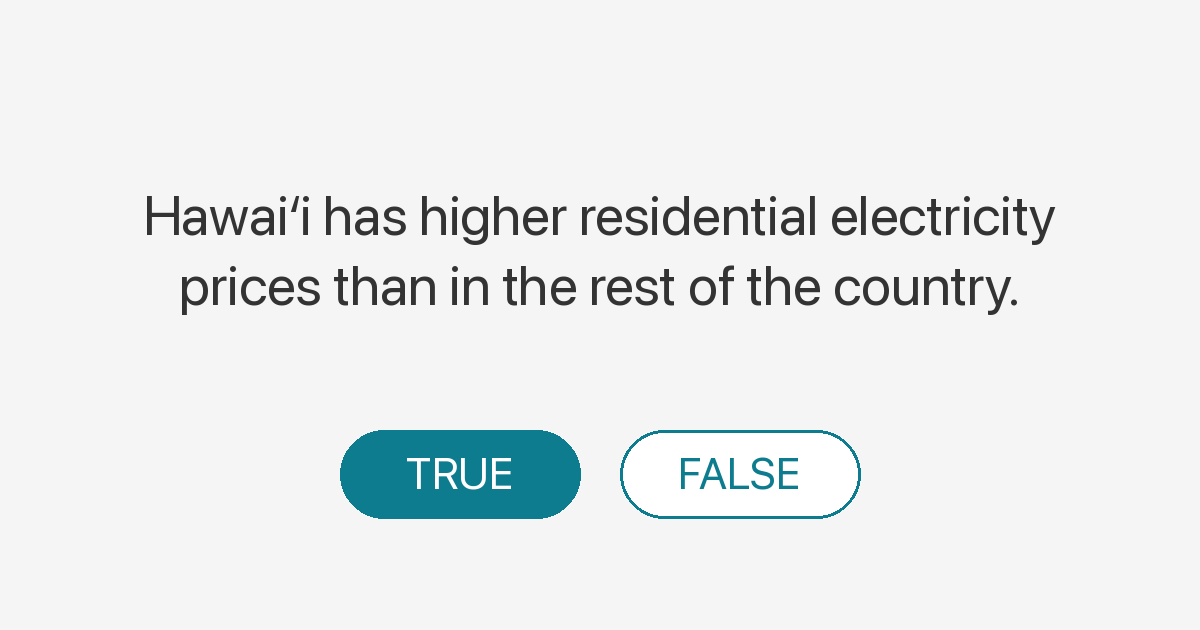
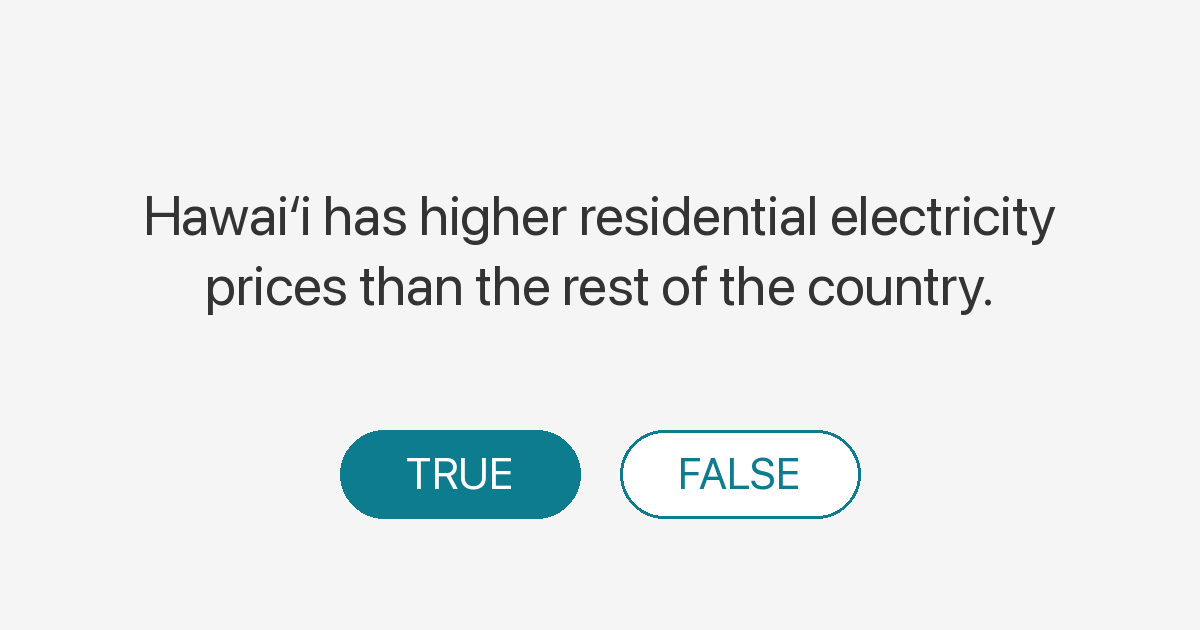
qotd: clarity sweep — 8 claims tightened
Adopted from daily-review edit pass; only changes that genuinely
improve 2-second comprehension:

Adds essential rate/per-capita framing (small-population misread risk):
- q047: "as a % of residents" → "per resident"
- q048: "...for primary care doctors" → "...for primary care doctors per resident"
- q078: "highest unsheltered homelessness" → "highest unsheltered homelessness rates"
- q080: "highest unsheltered homelessness" → "highest unsheltered homelessness rate"
       + "Of all counties" → "Of all Hawaiʻi counties"
- q084: "lower food insecurity" → "a lower food insecurity rate"

Style/consistency fixes:
- q037: "top ranked" → "top-ranked" (hyphenation matches q002)
- q083: rewrite to canonical V6 form "X has gone down in Hawaiʻi
        in the last five years" (matches q019/q038/q042/q052/q079)
- q050: drops "in" before "the rest of the country" (tighter grammar)

Slug updated for q047, q048, q078, q080, q084 to reflect new claim.
OG PNGs regenerated; 5 orphan PNGs removed.

Changed region(s): [[0.1542, 0.4222, 0.8633, 0.5127]]

diff --git a/js/questions.js b/js/questions.js
@@ -59,7 +59,7 @@ const QOTD_QUESTIONS = [
   {
       "id": "q050",
       "slug": "hawaii-has-higher-electricity-prices-than-the-rest-of-the-country",
-      "claim": "Hawaiʻi has higher residential electricity prices than in the rest of the country.",
+      "claim": "Hawaiʻi has higher residential electricity prices than the rest of the country.",
       "correct": true,
       "answer": "In 2025, Hawaiʻi was 40.6¢ versus the median of 15.3¢.",
       "chartUrl": "/r/residential_price_cpkwh/",
@@ -238,8 +238,8 @@ const QOTD_QUESTIONS = [
   },
   {
       "id": "q078",
-      "slug": "hawaii-is-among-the-states-with-the-highest-unsheltered-homelessness",
-      "claim": "Hawaiʻi is among the states with the highest unsheltered homelessness.",
+      "slug": "hawaii-is-among-the-states-with-the-highest-unsheltered-homelessness-rates",
+      "claim": "Hawaiʻi is among the states with the highest unsheltered homelessness rates.",
       "correct": true,
       "answer": "Hawaiʻi has the #3 highest value among 50 states in 2024 (28.2 per 10K).",
       "chartUrl": "/r/unsheltered_homeless_rate/",
@@ -299,7 +299,7 @@ const QOTD_QUESTIONS = [
   {
       "id": "q037",
       "slug": "hawaii-is-in-the-top-10-states-for-low-violent-crime",
-      "claim": "Hawaiʻi is among the top ranked states for low violent crime.",
+      "claim": "Hawaiʻi is among the top-ranked states for low violent crime.",
       "correct": true,
       "answer": "Hawaiʻi ranks #12 of 50 in 2024, in the top quartile.",
       "chartUrl": "/r/violent_crime_rate/",
@@ -310,8 +310,8 @@ const QOTD_QUESTIONS = [
   },
   {
       "id": "q047",
-      "slug": "hawaii-has-more-primary-care-doctors-than-the-rest-of-the-country",
-      "claim": "Hawaiʻi has more primary care doctors as a % of residents than in most states.",
+      "slug": "hawaii-has-more-primary-care-doctors-per-resident-than-most-states",
+      "claim": "Hawaiʻi has more primary care doctors per resident than most states.",
       "correct": true,
       "answer": "In 2023, Hawaiʻi was 88.1 per 100K versus the median of 78.7 per 100K.",
       "chartUrl": "/r/pcp_per_100k/",
@@ -383,7 +383,7 @@ const QOTD_QUESTIONS = [
   {
       "id": "q083",
       "slug": "food-insecurity-has-gone-down-in-hawaii-in-the-last-five-years",
-      "claim": "Hawaiʻi has less food insecurity than it did five years ago.",
+      "claim": "Food insecurity has gone down in Hawaiʻi in the last five years.",
       "correct": false,
       "answer": "Hawaiʻi's food insecurity rate went from 8.0% to 10.8% between the 2016-2018 and 2022-2024 windows (+36.1%).",
       "chartUrl": "/t/food_insecurity_rate/",
@@ -478,8 +478,8 @@ const QOTD_QUESTIONS = [
   },
   {
       "id": "q048",
-      "slug": "hawaii-is-in-the-top-10-states-for-primary-care-doctors",
-      "claim": "Hawaiʻi is in the top 10 states for primary care doctors.",
+      "slug": "hawaii-is-in-the-top-10-states-for-primary-care-doctors-per-resident",
+      "claim": "Hawaiʻi is in the top 10 states for primary care doctors per resident.",
       "correct": true,
       "answer": "Hawaiʻi ranks #8 of 50 in 2023.",
       "chartUrl": "/r/pcp_per_100k/",
@@ -550,8 +550,8 @@ const QOTD_QUESTIONS = [
   },
   {
       "id": "q080",
-      "slug": "of-all-counties-honolulu-has-the-highest-unsheltered-homelessness",
-      "claim": "Of all counties, Honolulu has the highest unsheltered homelessness.",
+      "slug": "of-all-hawaii-counties-honolulu-has-the-highest-unsheltered-homelessness-rate",
+      "claim": "Of all Hawaiʻi counties, Honolulu has the highest unsheltered homelessness rate.",
       "correct": false,
       "answer": "In 2024, the county with the highest value was Kauaʻi at 63.0 per 10K.",
       "chartUrl": "/c/unsheltered_homeless_rate/",
@@ -562,8 +562,8 @@ const QOTD_QUESTIONS = [
   },
   {
       "id": "q084",
-      "slug": "hawaii-has-lower-food-insecurity-than-texas",
-      "claim": "Hawaiʻi has lower food insecurity than Texas.",
+      "slug": "hawaii-has-lower-food-insecurity-rate-than-texas",
+      "claim": "Hawaiʻi has a lower food insecurity rate than Texas.",
       "correct": true,
       "answer": "In 2022-2024, Hawaiʻi was 10.8% versus Texas at 17.5%.",
       "chartUrl": "/t/food_insecurity_rate/tx/",

diff --git a/q/q078/index.html b/q/q078/index.html
@@ -6,14 +6,14 @@
   <meta property="og:type" content="website">
   <meta property="og:url" content="https://hawaiidashboard.org/q/q078/">
   <meta property="og:title" content="You know Hawaiʻi?">
-  <meta property="og:image" content="https://hawaiidashboard.org/assets/og/q/hawaii-is-among-the-states-with-the-highest-unsheltered-homelessness.png">
+  <meta property="og:image" content="https://hawaiidashboard.org/assets/og/q/hawaii-is-among-the-states-with-the-highest-unsheltered-homelessness-rates.png">
   <meta property="og:image:width" content="1200">
   <meta property="og:image:height" content="630">
   <meta property="og:site_name" content="Hawaiʻi Dashboard">
   <meta name="twitter:card" content="summary_large_image">
   <meta name="twitter:title" content="You know Hawaiʻi?">
-  <meta name="twitter:image" content="https://hawaiidashboard.org/assets/og/q/hawaii-is-among-the-states-with-the-highest-unsheltered-homelessness.png">
-  <meta name="description" content="Hawaiʻi is among the states with the highest unsheltered homelessness.">
+  <meta name="twitter:image" content="https://hawaiidashboard.org/assets/og/q/hawaii-is-among-the-states-with-the-highest-unsheltered-homelessness-rates.png">
+  <meta name="description" content="Hawaiʻi is among the states with the highest unsheltered homelessness rates.">
   <link rel="canonical" href="https://hawaiidashboard.org/q/q078/">
   <script>window.location.replace("/?from_q=q078");</script>
   <meta http-equiv="refresh" content="0;url=https://hawaiidashboard.org/?from_q=q078">
@@ -22,7 +22,7 @@
   <p>Redirecting to <a href="https://hawaiidashboard.org/?from_q=q078">You know Hawaiʻi?</a>&hellip;</p>
   <article style="max-width:640px;margin:2rem auto;padding:0 1rem;font-family:-apple-system,BlinkMacSystemFont,'Segoe UI',sans-serif;color:#333;line-height:1.55;">
     <p style="color:#888;font-size:0.875rem;text-transform:uppercase;letter-spacing:0.05em;margin:0;">You know Hawaiʻi?</p>
-    <p style="margin:0.25rem 0 1rem;font-size:1.25rem;font-weight:600;">Hawaiʻi is among the states with the highest unsheltered homelessness.</p>
+    <p style="margin:0.25rem 0 1rem;font-size:1.25rem;font-weight:600;">Hawaiʻi is among the states with the highest unsheltered homelessness rates.</p>
     <p><strong>True.</strong> Hawaiʻi has the #3 highest value among 50 states in 2024 (28.2 per 10K).</p>
     <p style="margin-top:1.5rem;"><a href="/r/unsheltered_homeless_rate/">See the data &rarr;</a></p>
   </article>

diff --git a/q/q080/index.html b/q/q080/index.html
@@ -6,14 +6,14 @@
   <meta property="og:type" content="website">
   <meta property="og:url" content="https://hawaiidashboard.org/q/q080/">
   <meta property="og:title" content="You know Hawaiʻi?">
-  <meta property="og:image" content="https://hawaiidashboard.org/assets/og/q/of-all-counties-honolulu-has-the-highest-unsheltered-homelessness.png">
+  <meta property="og:image" content="https://hawaiidashboard.org/assets/og/q/of-all-hawaii-counties-honolulu-has-the-highest-unsheltered-homelessness-rate.png">
   <meta property="og:image:width" content="1200">
   <meta property="og:image:height" content="630">
   <meta property="og:site_name" content="Hawaiʻi Dashboard">
   <meta name="twitter:card" content="summary_large_image">
   <meta name="twitter:title" content="You know Hawaiʻi?">
-  <meta name="twitter:image" content="https://hawaiidashboard.org/assets/og/q/of-all-counties-honolulu-has-the-highest-unsheltered-homelessness.png">
-  <meta name="description" content="Of all counties, Honolulu has the highest unsheltered homelessness.">
+  <meta name="twitter:image" content="https://hawaiidashboard.org/assets/og/q/of-all-hawaii-counties-honolulu-has-the-highest-unsheltered-homelessness-rate.png">
+  <meta name="description" content="Of all Hawaiʻi counties, Honolulu has the highest unsheltered homelessness rate.">
   <link rel="canonical" href="https://hawaiidashboard.org/q/q080/">
   <script>window.location.replace("/?from_q=q080");</script>
   <meta http-equiv="refresh" content="0;url=https://hawaiidashboard.org/?from_q=q080">
@@ -22,7 +22,7 @@
   <p>Redirecting to <a href="https://hawaiidashboard.org/?from_q=q080">You know Hawaiʻi?</a>&hellip;</p>
   <article style="max-width:640px;margin:2rem auto;padding:0 1rem;font-family:-apple-system,BlinkMacSystemFont,'Segoe UI',sans-serif;color:#333;line-height:1.55;">
     <p style="color:#888;font-size:0.875rem;text-transform:uppercase;letter-spacing:0.05em;margin:0;">You know Hawaiʻi?</p>
-    <p style="margin:0.25rem 0 1rem;font-size:1.25rem;font-weight:600;">Of all counties, Honolulu has the highest unsheltered homelessness.</p>
+    <p style="margin:0.25rem 0 1rem;font-size:1.25rem;font-weight:600;">Of all Hawaiʻi counties, Honolulu has the highest unsheltered homelessness rate.</p>
     <p><strong>False.</strong> In 2024, the county with the highest value was Kauaʻi at 63.0 per 10K.</p>
     <p style="margin-top:1.5rem;"><a href="/c/unsheltered_homeless_rate/">See the data &rarr;</a></p>
   </article>

diff --git a/q/q047/index.html b/q/q047/index.html
@@ -6,14 +6,14 @@
   <meta property="og:type" content="website">
   <meta property="og:url" content="https://hawaiidashboard.org/q/q047/">
   <meta property="og:title" content="You know Hawaiʻi?">
-  <meta property="og:image" content="https://hawaiidashboard.org/assets/og/q/hawaii-has-more-primary-care-doctors-than-the-rest-of-the-country.png">
+  <meta property="og:image" content="https://hawaiidashboard.org/assets/og/q/hawaii-has-more-primary-care-doctors-per-resident-than-most-states.png">
   <meta property="og:image:width" content="1200">
   <meta property="og:image:height" content="630">
   <meta property="og:site_name" content="Hawaiʻi Dashboard">
   <meta name="twitter:card" content="summary_large_image">
   <meta name="twitter:title" content="You know Hawaiʻi?">
-  <meta name="twitter:image" content="https://hawaiidashboard.org/assets/og/q/hawaii-has-more-primary-care-doctors-than-the-rest-of-the-country.png">
-  <meta name="description" content="Hawaiʻi has more primary care doctors as a % of residents than in most states.">
+  <meta name="twitter:image" content="https://hawaiidashboard.org/assets/og/q/hawaii-has-more-primary-care-doctors-per-resident-than-most-states.png">
+  <meta name="description" content="Hawaiʻi has more primary care doctors per resident than most states.">
   <link rel="canonical" href="https://hawaiidashboard.org/q/q047/">
   <script>window.location.replace("/?from_q=q047");</script>
   <meta http-equiv="refresh" content="0;url=https://hawaiidashboard.org/?from_q=q047">
@@ -22,7 +22,7 @@
   <p>Redirecting to <a href="https://hawaiidashboard.org/?from_q=q047">You know Hawaiʻi?</a>&hellip;</p>
   <article style="max-width:640px;margin:2rem auto;padding:0 1rem;font-family:-apple-system,BlinkMacSystemFont,'Segoe UI',sans-serif;color:#333;line-height:1.55;">
     <p style="color:#888;font-size:0.875rem;text-transform:uppercase;letter-spacing:0.05em;margin:0;">You know Hawaiʻi?</p>
-    <p style="margin:0.25rem 0 1rem;font-size:1.25rem;font-weight:600;">Hawaiʻi has more primary care doctors as a % of residents than in most states.</p>
+    <p style="margin:0.25rem 0 1rem;font-size:1.25rem;font-weight:600;">Hawaiʻi has more primary care doctors per resident than most states.</p>
     <p><strong>True.</strong> In 2023, Hawaiʻi was 88.1 per 100K versus the median of 78.7 per 100K.</p>
     <p style="margin-top:1.5rem;"><a href="/r/pcp_per_100k/">See the data &rarr;</a></p>
   </article>

diff --git a/q/q048/index.html b/q/q048/index.html
@@ -6,14 +6,14 @@
   <meta property="og:type" content="website">
   <meta property="og:url" content="https://hawaiidashboard.org/q/q048/">
   <meta property="og:title" content="You know Hawaiʻi?">
-  <meta property="og:image" content="https://hawaiidashboard.org/assets/og/q/hawaii-is-in-the-top-10-states-for-primary-care-doctors.png">
+  <meta property="og:image" content="https://hawaiidashboard.org/assets/og/q/hawaii-is-in-the-top-10-states-for-primary-care-doctors-per-resident.png">
   <meta property="og:image:width" content="1200">
   <meta property="og:image:height" content="630">
   <meta property="og:site_name" content="Hawaiʻi Dashboard">
   <meta name="twitter:card" content="summary_large_image">
   <meta name="twitter:title" content="You know Hawaiʻi?">
-  <meta name="twitter:image" content="https://hawaiidashboard.org/assets/og/q/hawaii-is-in-the-top-10-states-for-primary-care-doctors.png">
-  <meta name="description" content="Hawaiʻi is in the top 10 states for primary care doctors.">
+  <meta name="twitter:image" content="https://hawaiidashboard.org/assets/og/q/hawaii-is-in-the-top-10-states-for-primary-care-doctors-per-resident.png">
+  <meta name="description" content="Hawaiʻi is in the top 10 states for primary care doctors per resident.">
   <link rel="canonical" href="https://hawaiidashboard.org/q/q048/">
   <script>window.location.replace("/?from_q=q048");</script>
   <meta http-equiv="refresh" content="0;url=https://hawaiidashboard.org/?from_q=q048">
@@ -22,7 +22,7 @@
   <p>Redirecting to <a href="https://hawaiidashboard.org/?from_q=q048">You know Hawaiʻi?</a>&hellip;</p>
   <article style="max-width:640px;margin:2rem auto;padding:0 1rem;font-family:-apple-system,BlinkMacSystemFont,'Segoe UI',sans-serif;color:#333;line-height:1.55;">
     <p style="color:#888;font-size:0.875rem;text-transform:uppercase;letter-spacing:0.05em;margin:0;">You know Hawaiʻi?</p>
-    <p style="margin:0.25rem 0 1rem;font-size:1.25rem;font-weight:600;">Hawaiʻi is in the top 10 states for primary care doctors.</p>
+    <p style="margin:0.25rem 0 1rem;font-size:1.25rem;font-weight:600;">Hawaiʻi is in the top 10 states for primary care doctors per resident.</p>
     <p><strong>True.</strong> Hawaiʻi ranks #8 of 50 in 2023.</p>
     <p style="margin-top:1.5rem;"><a href="/r/pcp_per_100k/">See the data &rarr;</a></p>
   </article>

diff --git a/q/q084/index.html b/q/q084/index.html
@@ -6,14 +6,14 @@
   <meta property="og:type" content="website">
   <meta property="og:url" content="https://hawaiidashboard.org/q/q084/">
   <meta property="og:title" content="You know Hawaiʻi?">
-  <meta property="og:image" content="https://hawaiidashboard.org/assets/og/q/hawaii-has-lower-food-insecurity-than-texas.png">
+  <meta property="og:image" content="https://hawaiidashboard.org/assets/og/q/hawaii-has-lower-food-insecurity-rate-than-texas.png">
   <meta property="og:image:width" content="1200">
   <meta property="og:image:height" content="630">
   <meta property="og:site_name" content="Hawaiʻi Dashboard">
   <meta name="twitter:card" content="summary_large_image">
   <meta name="twitter:title" content="You know Hawaiʻi?">
-  <meta name="twitter:image" content="https://hawaiidashboard.org/assets/og/q/hawaii-has-lower-food-insecurity-than-texas.png">
-  <meta name="description" content="Hawaiʻi has lower food insecurity than Texas.">
+  <meta name="twitter:image" content="https://hawaiidashboard.org/assets/og/q/hawaii-has-lower-food-insecurity-rate-than-texas.png">
+  <meta name="description" content="Hawaiʻi has a lower food insecurity rate than Texas.">
   <link rel="canonical" href="https://hawaiidashboard.org/q/q084/">
   <script>window.location.replace("/?from_q=q084");</script>
   <meta http-equiv="refresh" content="0;url=https://hawaiidashboard.org/?from_q=q084">
@@ -22,7 +22,7 @@
   <p>Redirecting to <a href="https://hawaiidashboard.org/?from_q=q084">You know Hawaiʻi?</a>&hellip;</p>
   <article style="max-width:640px;margin:2rem auto;padding:0 1rem;font-family:-apple-system,BlinkMacSystemFont,'Segoe UI',sans-serif;color:#333;line-height:1.55;">
     <p style="color:#888;font-size:0.875rem;text-transform:uppercase;letter-spacing:0.05em;margin:0;">You know Hawaiʻi?</p>
-    <p style="margin:0.25rem 0 1rem;font-size:1.25rem;font-weight:600;">Hawaiʻi has lower food insecurity than Texas.</p>
+    <p style="margin:0.25rem 0 1rem;font-size:1.25rem;font-weight:600;">Hawaiʻi has a lower food insecurity rate than Texas.</p>
     <p><strong>True.</strong> In 2022-2024, Hawaiʻi was 10.8% versus Texas at 17.5%.</p>
     <p style="margin-top:1.5rem;"><a href="/t/food_insecurity_rate/tx/">See the data &rarr;</a></p>
   </article>

diff --git a/q/q050/index.html b/q/q050/index.html
@@ -13,7 +13,7 @@
   <meta name="twitter:card" content="summary_large_image">
   <meta name="twitter:title" content="You know Hawaiʻi?">
   <meta name="twitter:image" content="https://hawaiidashboard.org/assets/og/q/hawaii-has-higher-electricity-prices-than-the-rest-of-the-country.png">
-  <meta name="description" content="Hawaiʻi has higher residential electricity prices than in the rest of the country.">
+  <meta name="description" content="Hawaiʻi has higher residential electricity prices than the rest of the country.">
   <link rel="canonical" href="https://hawaiidashboard.org/q/q050/">
   <script>window.location.replace("/?from_q=q050");</script>
   <meta http-equiv="refresh" content="0;url=https://hawaiidashboard.org/?from_q=q050">
@@ -22,7 +22,7 @@
   <p>Redirecting to <a href="https://hawaiidashboard.org/?from_q=q050">You know Hawaiʻi?</a>&hellip;</p>
   <article style="max-width:640px;margin:2rem auto;padding:0 1rem;font-family:-apple-system,BlinkMacSystemFont,'Segoe UI',sans-serif;color:#333;line-height:1.55;">
     <p style="color:#888;font-size:0.875rem;text-transform:uppercase;letter-spacing:0.05em;margin:0;">You know Hawaiʻi?</p>
-    <p style="margin:0.25rem 0 1rem;font-size:1.25rem;font-weight:600;">Hawaiʻi has higher residential electricity prices than in the rest of the country.</p>
+    <p style="margin:0.25rem 0 1rem;font-size:1.25rem;font-weight:600;">Hawaiʻi has higher residential electricity prices than the rest of the country.</p>
     <p><strong>True.</strong> In 2025, Hawaiʻi was 40.6¢ versus the median of 15.3¢.</p>
     <p style="margin-top:1.5rem;"><a href="/r/residential_price_cpkwh/">See the data &rarr;</a></p>
   </article>

diff --git a/q/q083/index.html b/q/q083/index.html
@@ -13,7 +13,7 @@
   <meta name="twitter:card" content="summary_large_image">
   <meta name="twitter:title" content="You know Hawaiʻi?">
   <meta name="twitter:image" content="https://hawaiidashboard.org/assets/og/q/food-insecurity-has-gone-down-in-hawaii-in-the-last-five-years.png">
-  <meta name="description" content="Hawaiʻi has less food insecurity than it did five years ago.">
+  <meta name="description" content="Food insecurity has gone down in Hawaiʻi in the last five years.">
   <link rel="canonical" href="https://hawaiidashboard.org/q/q083/">
   <script>window.location.replace("/?from_q=q083");</script>
   <meta http-equiv="refresh" content="0;url=https://hawaiidashboard.org/?from_q=q083">
@@ -22,7 +22,7 @@
   <p>Redirecting to <a href="https://hawaiidashboard.org/?from_q=q083">You know Hawaiʻi?</a>&hellip;</p>
   <article style="max-width:640px;margin:2rem auto;padding:0 1rem;font-family:-apple-system,BlinkMacSystemFont,'Segoe UI',sans-serif;color:#333;line-height:1.55;">
     <p style="color:#888;font-size:0.875rem;text-transform:uppercase;letter-spacing:0.05em;margin:0;">You know Hawaiʻi?</p>
-    <p style="margin:0.25rem 0 1rem;font-size:1.25rem;font-weight:600;">Hawaiʻi has less food insecurity than it did five years ago.</p>
+    <p style="margin:0.25rem 0 1rem;font-size:1.25rem;font-weight:600;">Food insecurity has gone down in Hawaiʻi in the last five years.</p>
     <p><strong>False.</strong> Hawaiʻi's food insecurity rate went from 8.0% to 10.8% between the 2016-2018 and 2022-2024 windows (+36.1%).</p>
     <p style="margin-top:1.5rem;"><a href="/t/food_insecurity_rate/">See the data &rarr;</a></p>
   </article>

diff --git a/q/q037/index.html b/q/q037/index.html
@@ -13,7 +13,7 @@
   <meta name="twitter:card" content="summary_large_image">
   <meta name="twitter:title" content="You know Hawaiʻi?">
   <meta name="twitter:image" content="https://hawaiidashboard.org/assets/og/q/hawaii-is-in-the-top-10-states-for-low-violent-crime.png">
-  <meta name="description" content="Hawaiʻi is among the top ranked states for low violent crime.">
+  <meta name="description" content="Hawaiʻi is among the top-ranked states for low violent crime.">
   <link rel="canonical" href="https://hawaiidashboard.org/q/q037/">
   <script>window.location.replace("/?from_q=q037");</script>
   <meta http-equiv="refresh" content="0;url=https://hawaiidashboard.org/?from_q=q037">
@@ -22,7 +22,7 @@
   <p>Redirecting to <a href="https://hawaiidashboard.org/?from_q=q037">You know Hawaiʻi?</a>&hellip;</p>
   <article style="max-width:640px;margin:2rem auto;padding:0 1rem;font-family:-apple-system,BlinkMacSystemFont,'Segoe UI',sans-serif;color:#333;line-height:1.55;">
     <p style="color:#888;font-size:0.875rem;text-transform:uppercase;letter-spacing:0.05em;margin:0;">You know Hawaiʻi?</p>
-    <p style="margin:0.25rem 0 1rem;font-size:1.25rem;font-weight:600;">Hawaiʻi is among the top ranked states for low violent crime.</p>
+    <p style="margin:0.25rem 0 1rem;font-size:1.25rem;font-weight:600;">Hawaiʻi is among the top-ranked states for low violent crime.</p>
     <p><strong>True.</strong> Hawaiʻi ranks #12 of 50 in 2024, in the top quartile.</p>
     <p style="margin-top:1.5rem;"><a href="/r/violent_crime_rate/">See the data &rarr;</a></p>
   </article>
